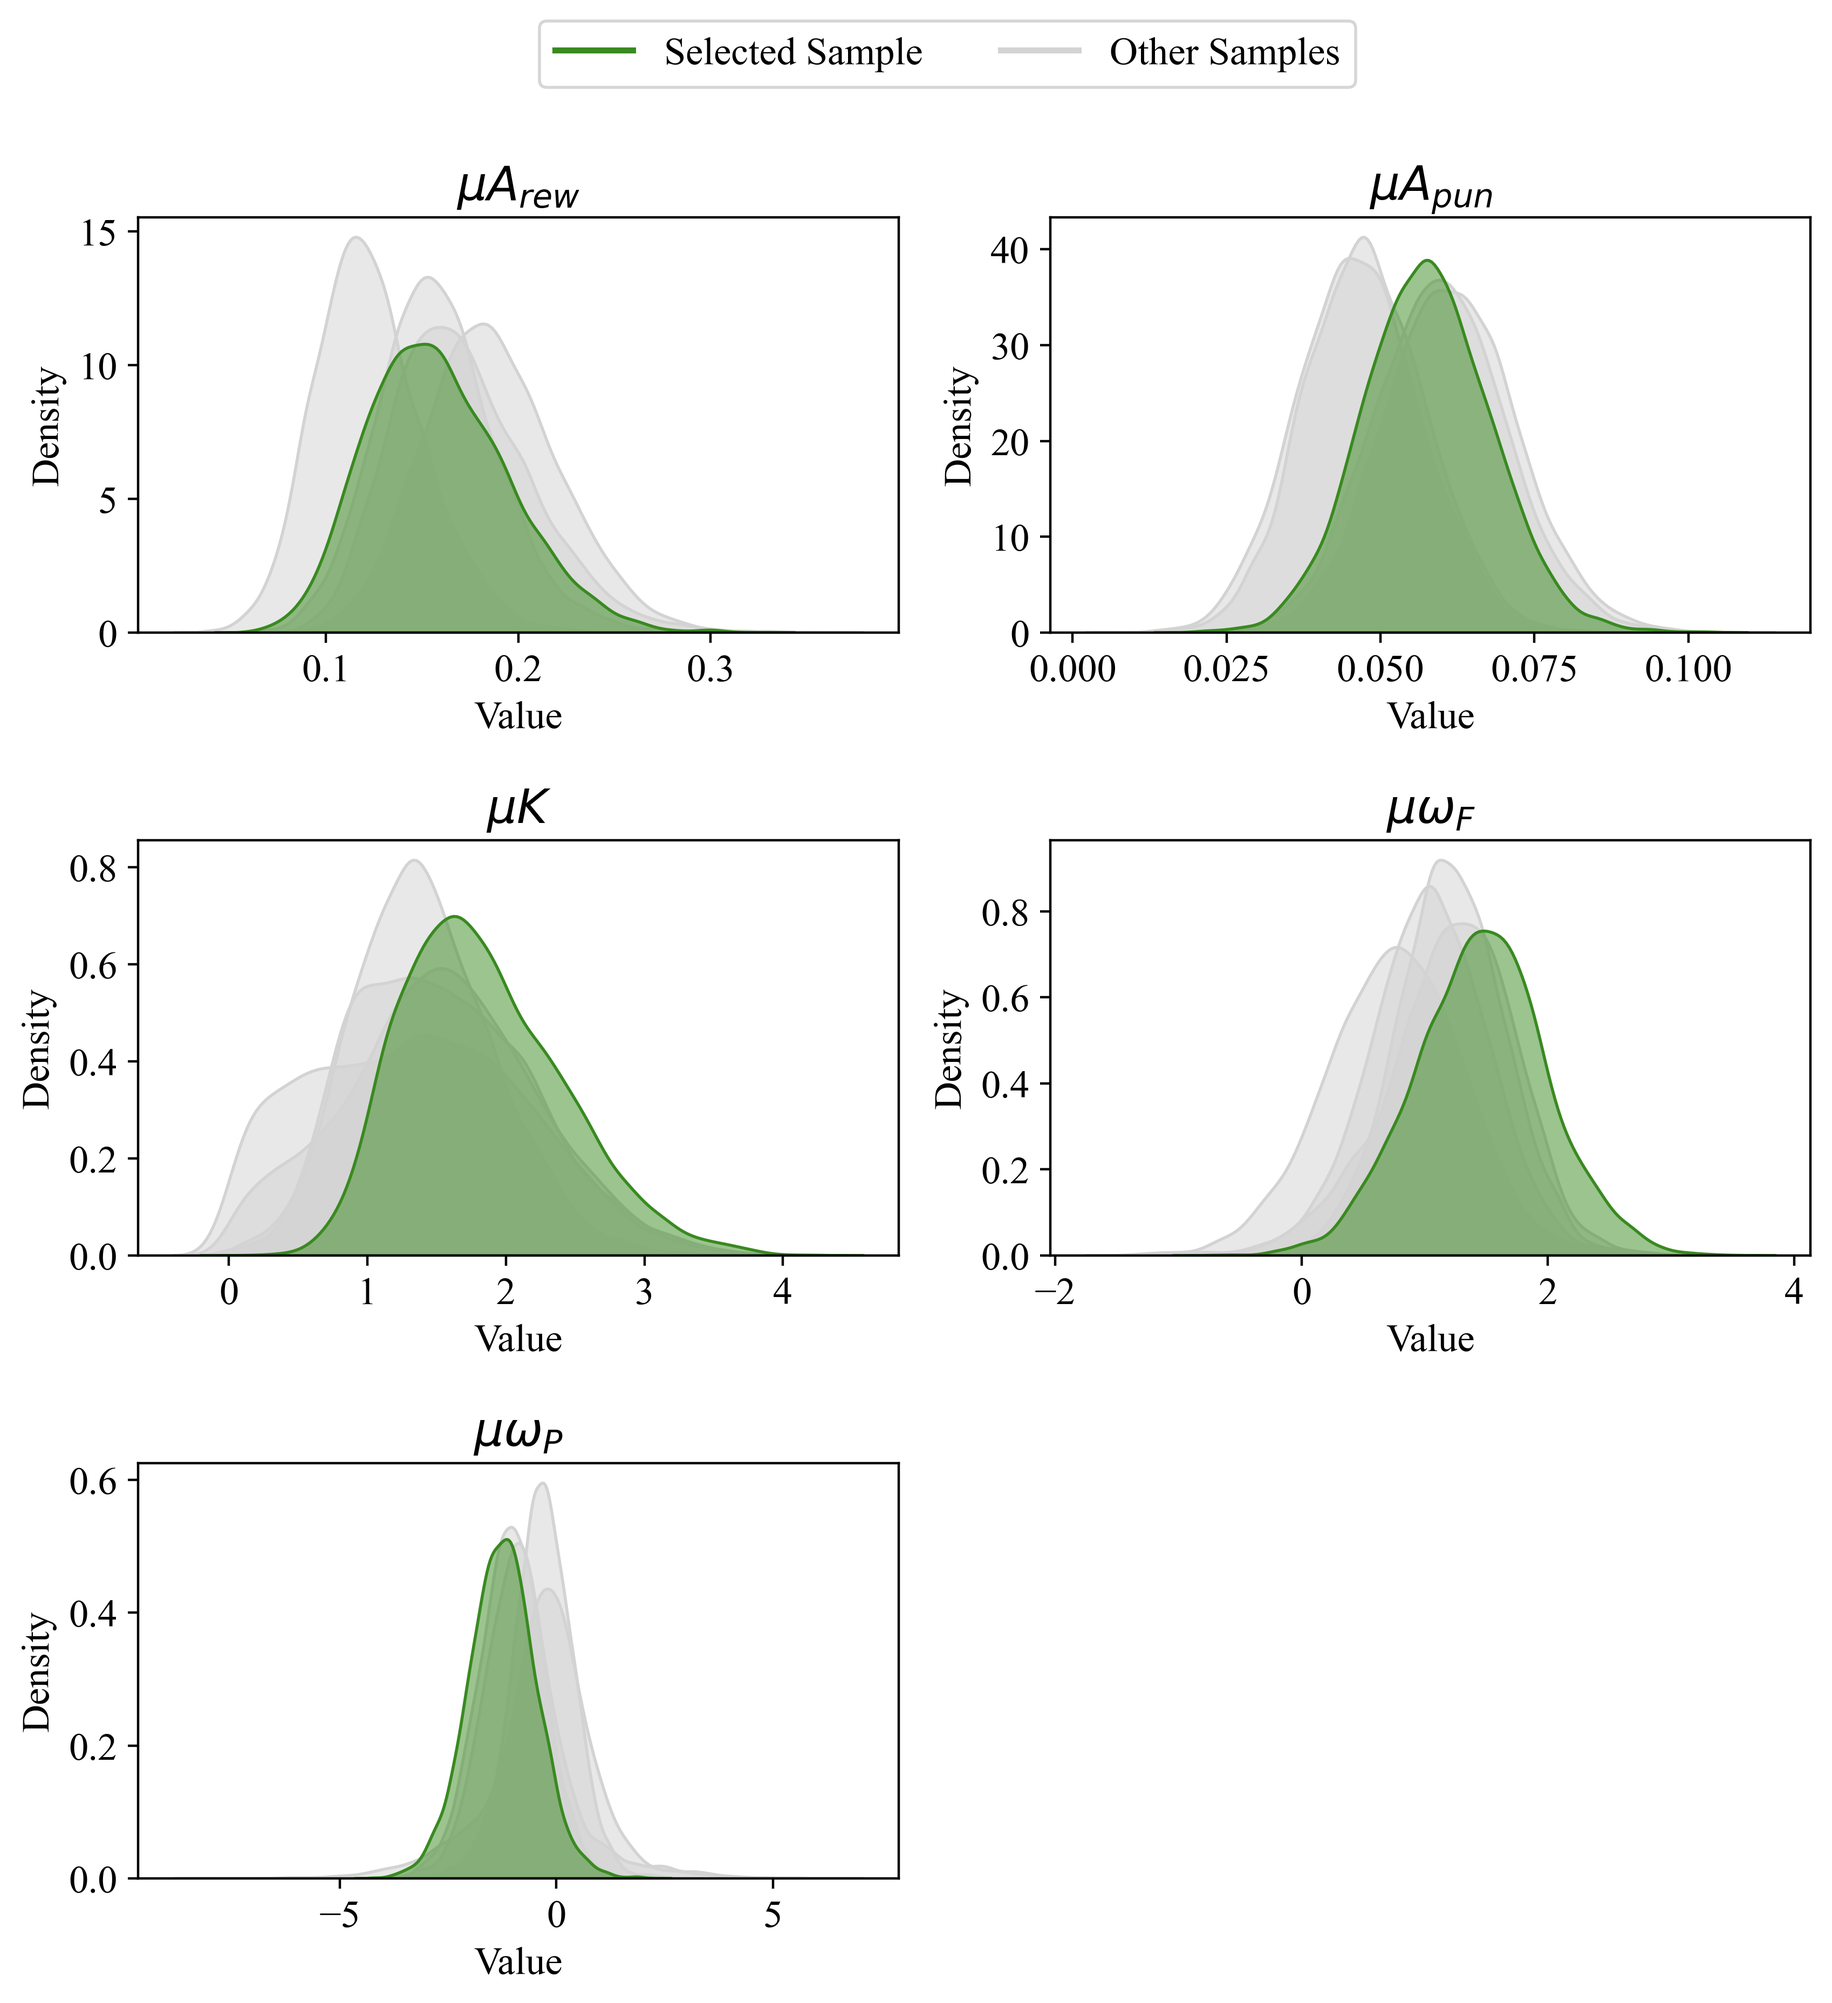
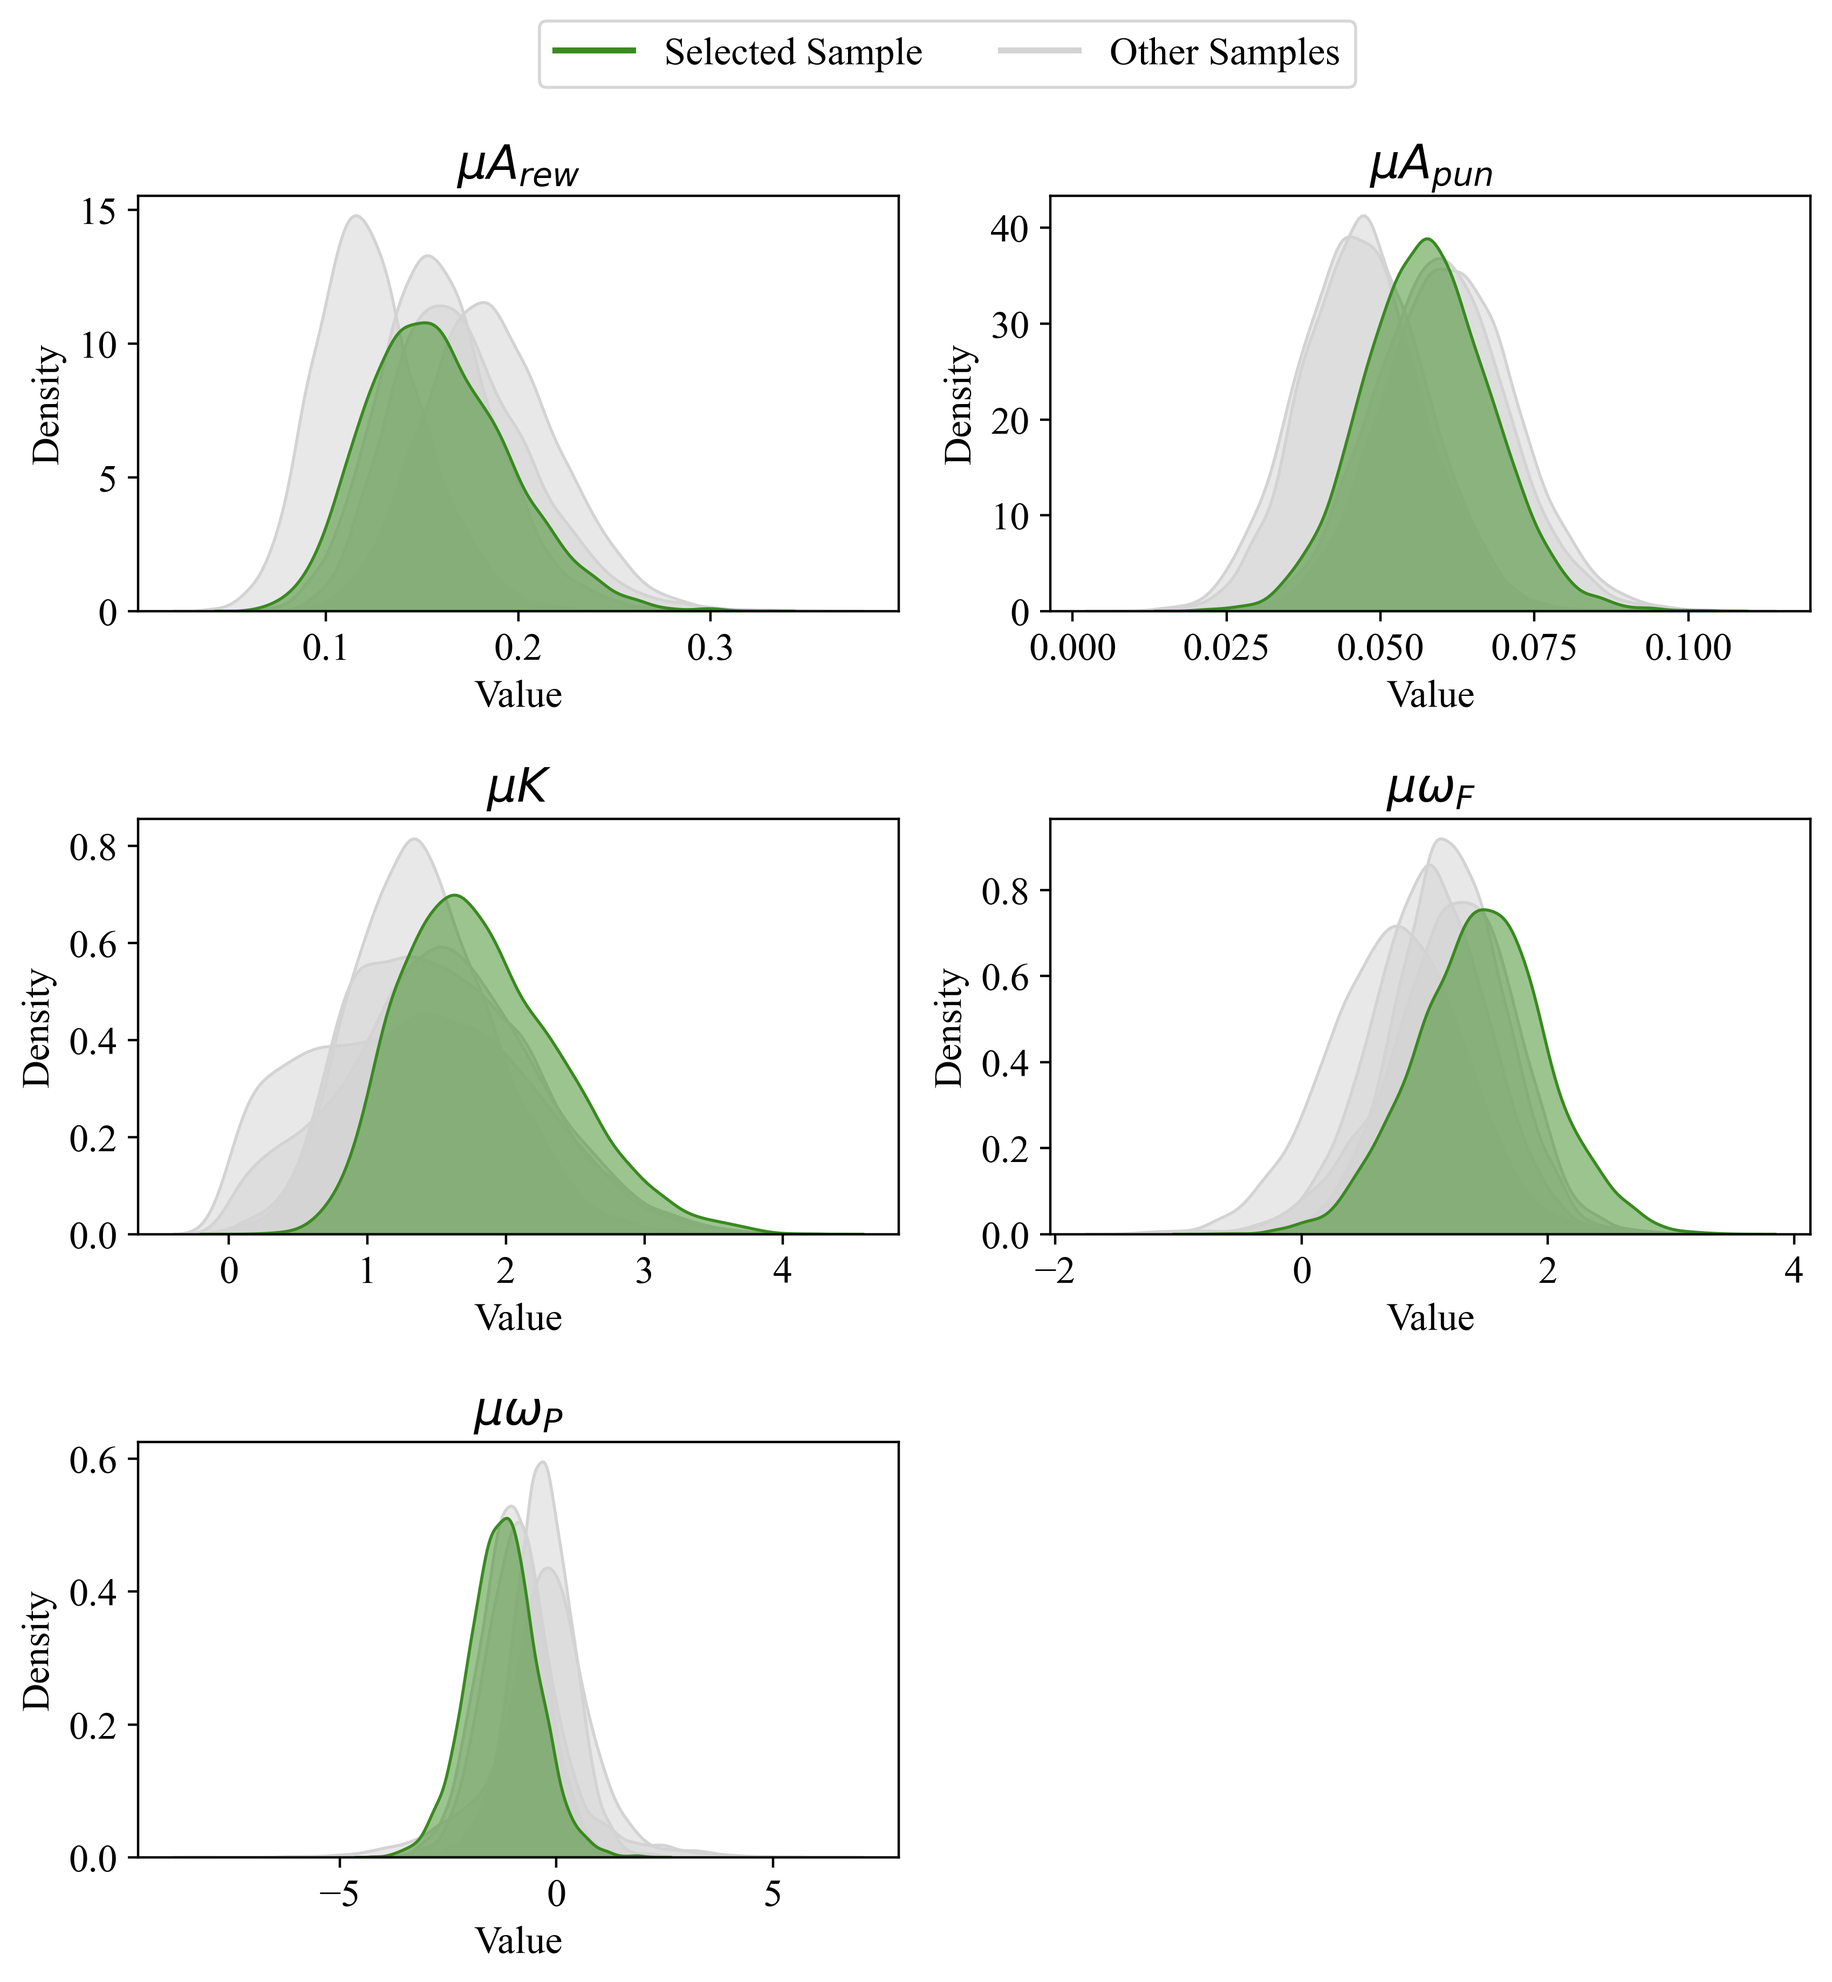
improved spacing

diff --git a/src/estimation/plot_estimates.py b/src/estimation/plot_estimates.py
@@ -122,7 +122,7 @@ def plot_hc_posteriors(main_hc_sample, other_hc_samples,
         legend_handles.append(prior_line)
 
     # Create a single legend for the entire figure
-    fig.legend(handles=legend_handles, loc='upper center', ncol=3, bbox_to_anchor=(0.5, 0.98), fancybox=True)
+    fig.legend(handles=legend_handles, loc='upper center', ncol=3, bbox_to_anchor=(0.5, 0.97), fancybox=True)
 
     if save_path is not None:
         plt.savefig(save_path, dpi=400, bbox_inches='tight')
